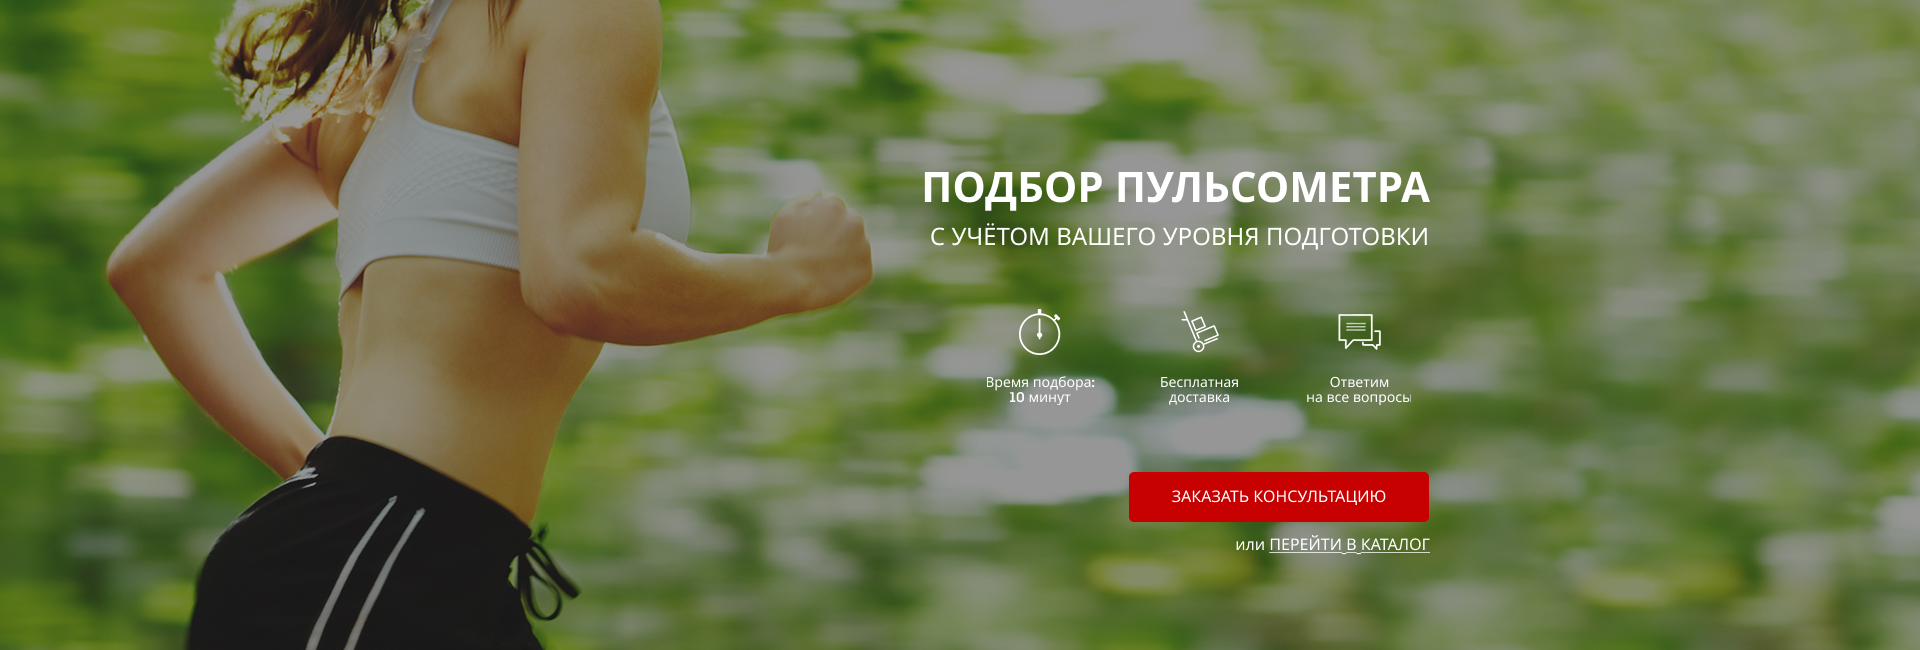
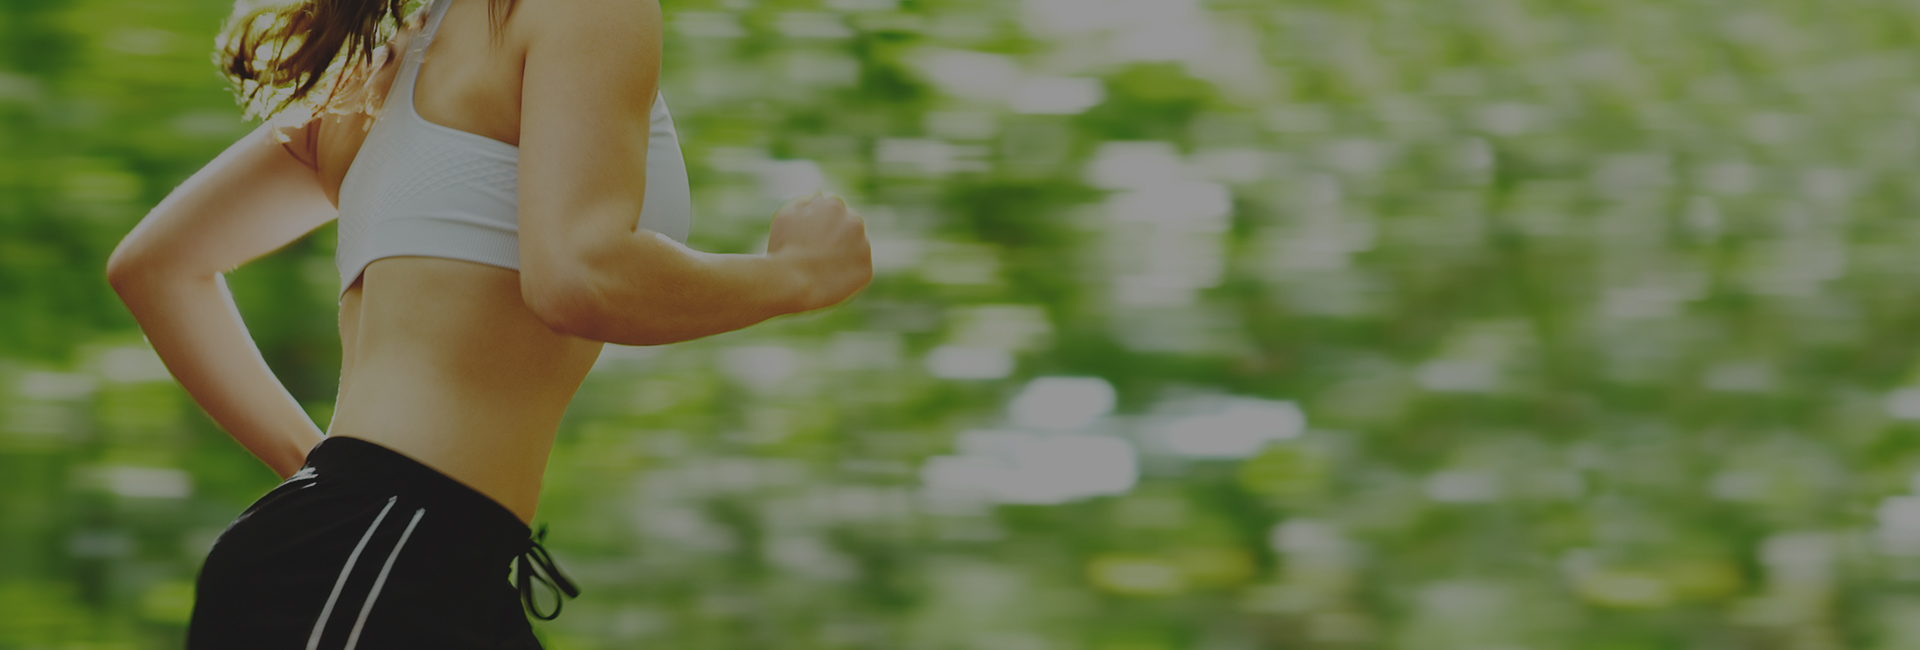
Starting to adaptating project

diff --git a/src/index.html b/src/index.html
@@ -1,12 +1,79 @@
 <!DOCTYPE html>
-<html lang="en">
+<html lang="ru">
 <head>
     <meta charset="UTF-8">
     <meta http-equiv="X-UA-Compatible" content="IE=edge">
     <meta name="viewport" content="width=device-width, initial-scale=1.0">
-    <title>Document</title>
+    <title>Pulse</title>
+    <script src="https://kit.fontawesome.com/6ae3387233.js" crossorigin="anonymous"></script>
+    <link rel="stylesheet" href="css/Fonts.css">
+    <link rel="stylesheet" href="css/bootstrap-reboot.min.css">
+    <link rel="stylesheet" href="css/style.min.css">
 </head>
 <body>
-    
+    <div class="promo">
+        <div class="container">
+            <header class="header">
+                <a href="#" class="header__logo">
+                    <img src="icons/Logo.png" alt="Logo">
+                </a>
+                <div class="header__official">
+                    Официальный представитель
+                    <span>Garmin, Polar, Suunto</span>
+                </div>
+                <div class="header__contacts">
+                    <a href="tel:+74999228974" class="header__phone">
+                        +7 (499) 922-89-74
+                    </a>
+                    <button class="button">заказать звонок</button>
+                </div>
+            </header>
+            <div class="promo__wrapper">
+                <h1 class="promo__header">Подбор пульсометра</h1>
+                <h2 class="promo__subheader">с учётом Вашего уровня подготовки</h2>
+                <div class="promo__icons">
+                    <div class="promo__icon">
+                        <img src="icons/Timer.png" alt="Timer">
+                        Время подбора:<br>10 минут
+                    </div>
+                    <div class="promo__icon">
+                        <img src="icons/cart.png" alt="Cart">
+                        Бесплатная <br>доставка
+                    </div>
+                    <div class="promo__icon">
+                        <img src="icons/messages.png" alt="Message">
+                        Ответим <br>на все вопросы
+                    </div>
+                </div>
+                <button class="button button_main">заказать консультацию</button>
+                <div class="promo__link">
+                    или
+                    <a href="#">ПЕРЕЙТИ В КАТАЛОГ</a>
+                </div>
+            </div>
+        </div>
+    </div>
+    <div class="benefits">
+        <div class="container">
+            <h2 class="benefits__title">НАШИ ПРЕИМУЩЕСТВА</h2>
+            <div class="benefits__wrapper">
+              <div class="benefits__item">
+                  <img src="icons/cup.png" alt="Cup">
+                  <h3>Делимся опытом</h3>
+                  <div class="benefits__descr">Наши сотрудники всегда готовы поделиться своим опытом, так как сами бегают полумарафоны, переплыли Босфор, готовятся к соревнованиям по триатлону!</div>
+              </div>
+              <div class="benefits__item">
+                  <img src="icons/heart.png" alt="Heart">
+                  <h3>Заботимся о здоровье</h3>
+                  <div class="benefits__descr">Мы работаем для того, чтобы Ваши занятия спортом шли на пользу Вашему здоровью и были в радость Вам и Вашим близким!</div>
+              </div>
+              <div class="benefits__item">
+                  <img src="icons/shoe.png" alt="Shoe">
+                  <h3>Учим бегать</h3>
+                  <div class="benefits__descr">Помогаем с обучением правильной технике бега! Дружим с крупнейшей школой бега в России - <a href="#">I LOVE RUNNING</a>.</div>
+              </div>  
+            </div>
+        </div>
+    </div>
 </body>
 </html>
